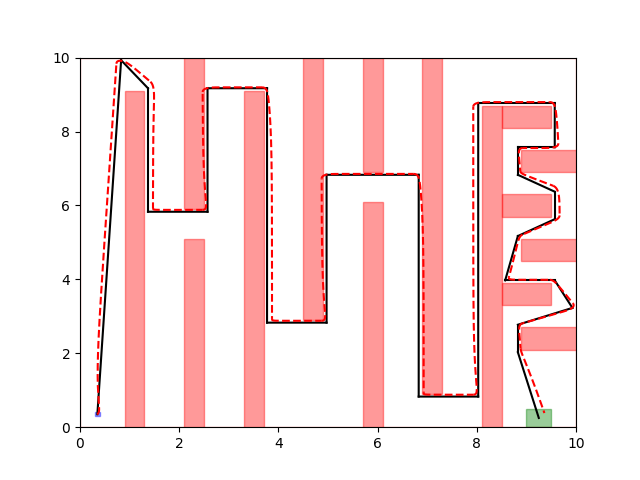
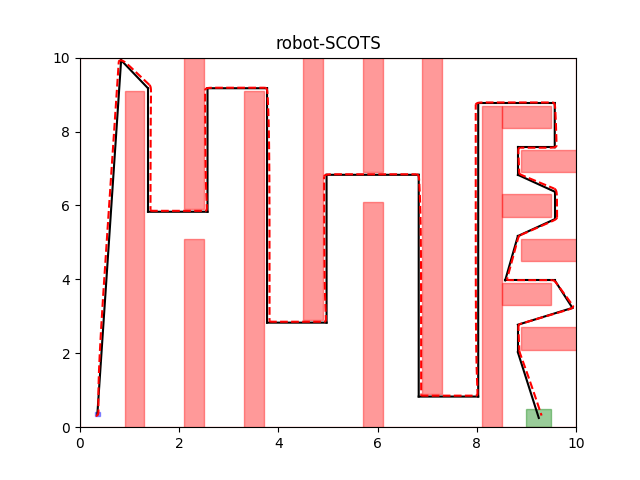
plotting robot for SCOTS

diff --git a/models/kinematic_car.py b/models/kinematic_car.py
@@ -22,11 +22,11 @@ def model(q, t, u):
 	dthetadt = w
 	return [dxdt, dydt, dthetadt]
 
-def controller(q, qref, uref):
+def controller(q, qref, uref, k_plot = [100, 100, 100]):
 	x, y, theta = q
 	xref, yref, thetaref = qref
 	vref, wref = uref
-	k1, k2, k3 = [100, 100, 100] # For plotting purposes only
+	k1, k2, k3 = k_plot # For plotting purposes only
 
 	xe = cos(theta)*(xref - x) + sin(theta)*(yref - y)
 	ye = -sin(theta)*(xref - x) + cos(theta)*(yref - y)
@@ -44,7 +44,7 @@ def bloating(n, alpha):
 	else:
 		return sqrt(alpha**2 + 4/k2)
 
-def run_model(q0, t, qref, uref):
+def run_model(q0, t, qref, uref, k_plot = [100, 100, 100]):
 	q = [q0]
 	u0 = [0, 0]
 	for i in range(0,len(t)):
@@ -52,5 +52,5 @@ def run_model(q0, t, qref, uref):
 		q1 = odeint(model, q0, t_step, args = (u0,))
 		q0 = q1[1]
 		q.append(q0)
-		u0 = controller(q0, qref[i], uref[i])
+		u0 = controller(q0, qref[i], uref[i], k_plot)
 	return q

diff --git a/models/bijective_robot.py b/models/bijective_robot.py
@@ -26,11 +26,11 @@ def model(q, t, u):
 
 	return [xdot, ydot, sdot, cdot]
 
-def controller(q, qref, uref):
+def controller(q, qref, uref, k_plot = [200, 200, 200]):
 	x, y, s, c = q
 	xref, yref, thetaref = qref
 	vref, wref = uref
-	k1, kx, ks = [100, 100, 100]
+	k1, kx, ks = k_plot # For plotting only
 	a = 4
 
 	xe = c*(xref - x) + s*(yref - y)
@@ -50,7 +50,7 @@ def bloating(n, alpha):
 	else:
 		return sqrt(alpha**2)
 
-def run_model(q0, t, qref, uref):
+def run_model(q0, t, qref, uref, k_plot = [200, 200, 200]):
 	q = [q0]
 	u0 = [0, 0]
 	for i in range(0,len(t)):
@@ -58,5 +58,5 @@ def run_model(q0, t, qref, uref):
 		q1 = odeint(model, q0, t_step, args = (u0,))
 		q0 = q1[1]
 		q.append(q0)
-		u0 = controller(q0, qref[i], uref[i])
+		u0 = controller(q0, qref[i], uref[i], k_plot)
 	return q
